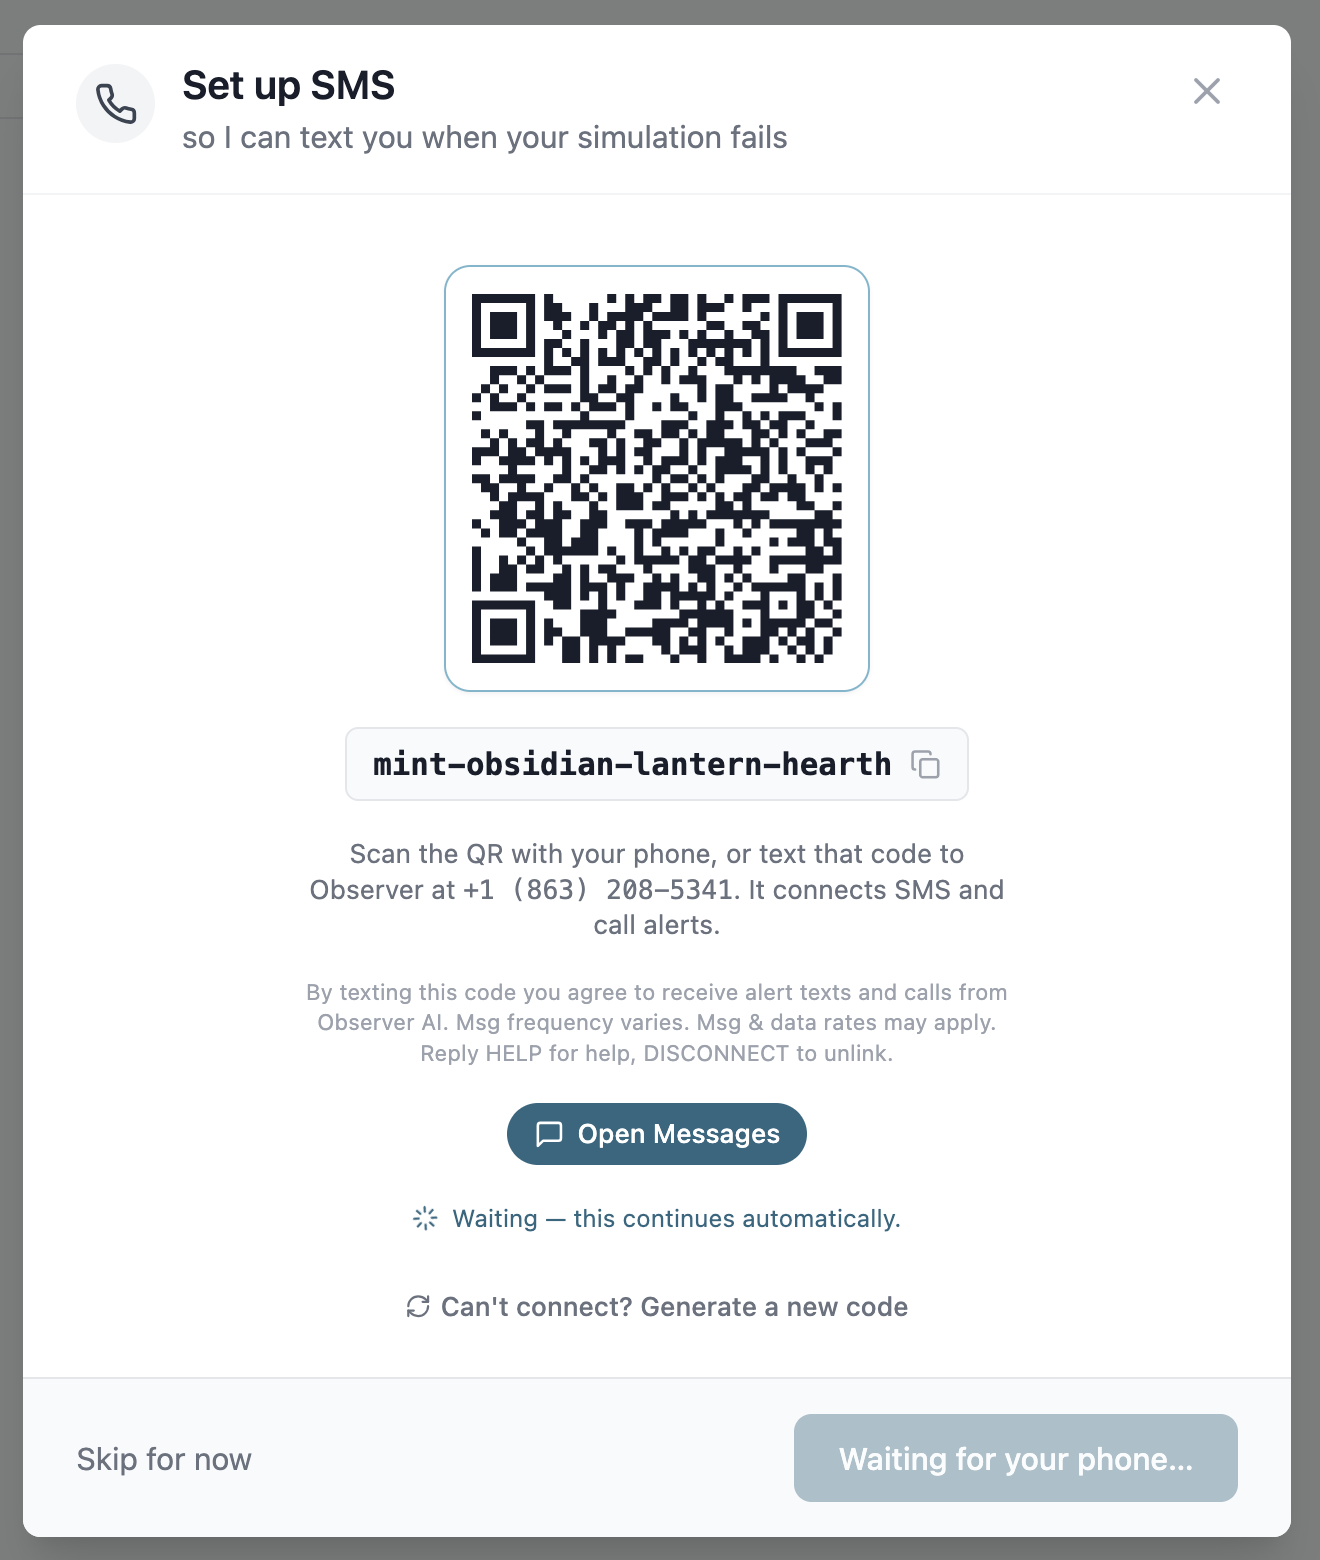
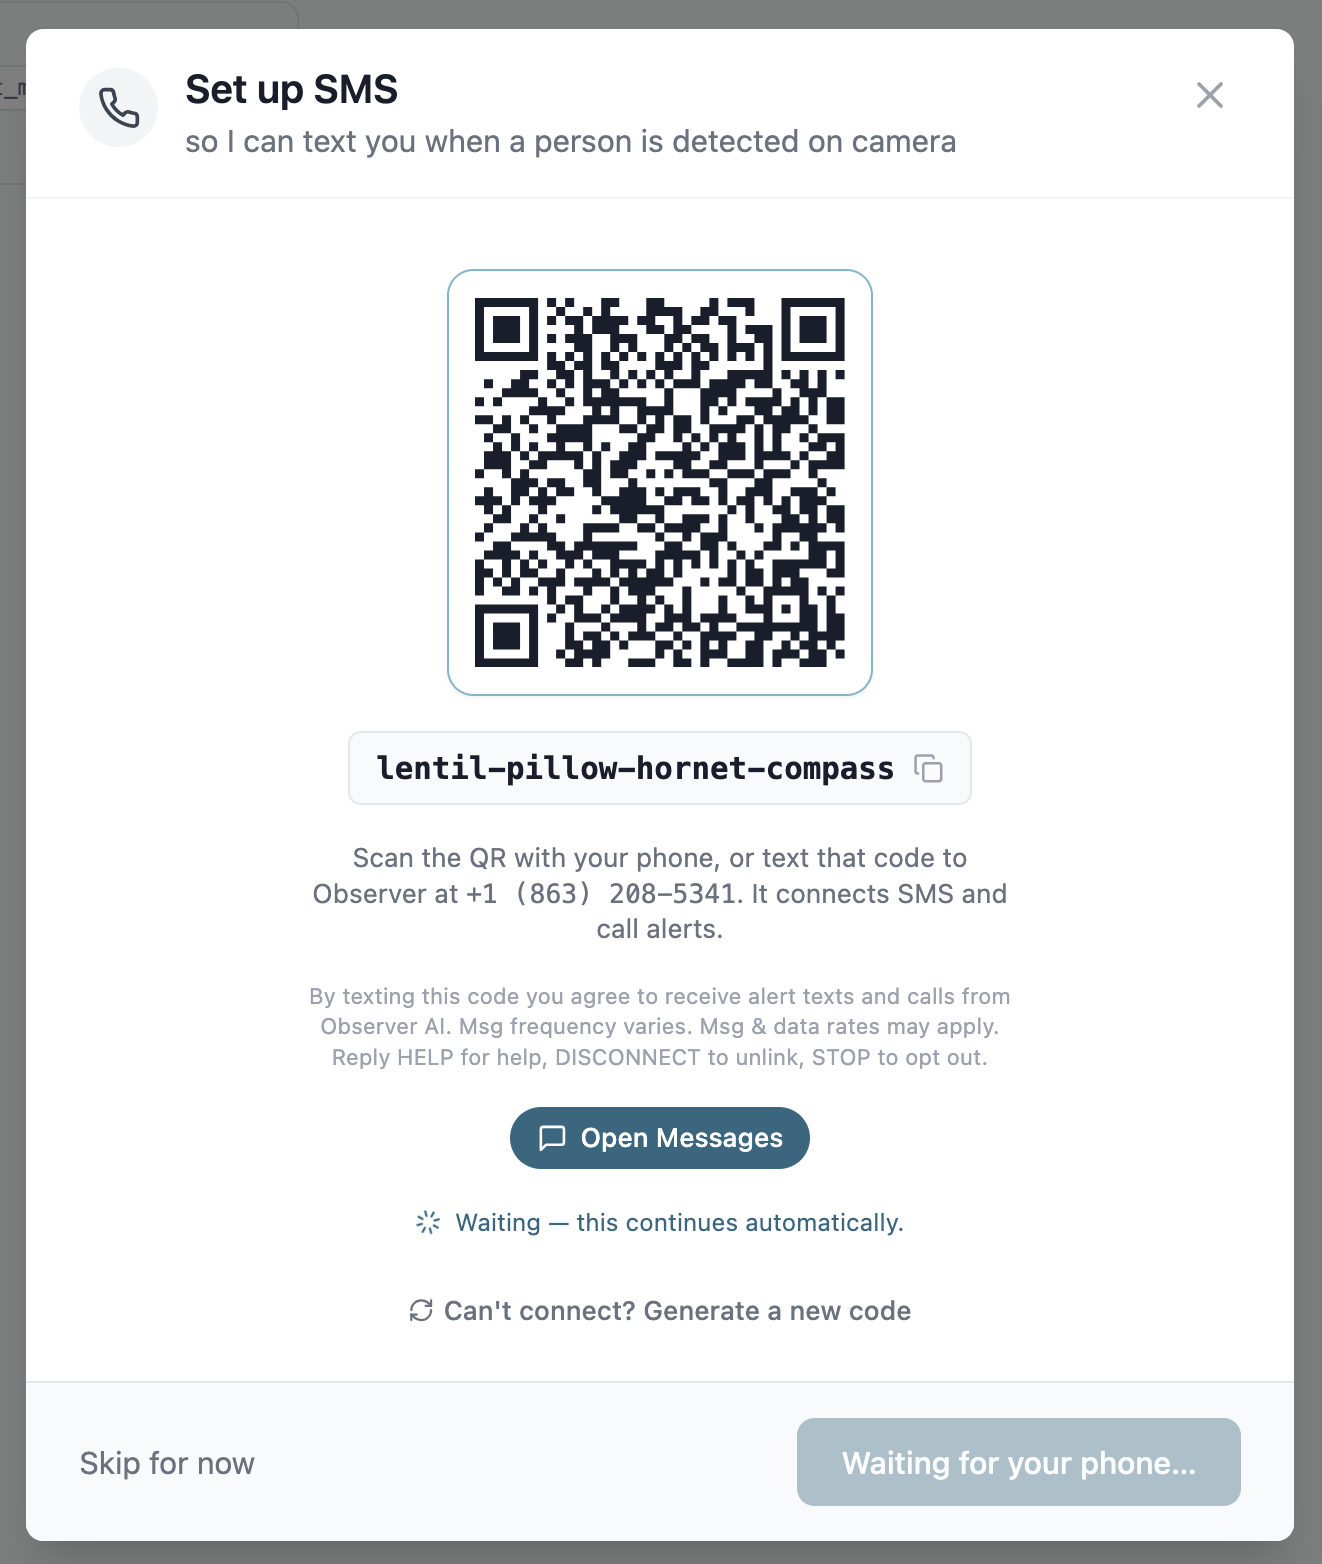
update frontend copy

diff --git a/app/src/components/whitelist/shared.ts b/app/src/components/whitelist/shared.ts
@@ -38,7 +38,7 @@ export const openSms = (code: string) => openExternal(smsCodeQRValue(code));
 /** The disclosure shown wherever the SMS code is: texting it is the user's SMS opt-in. */
 export const SMS_CONSENT =
   'By texting this code you agree to receive alert texts and calls from Observer AI. ' +
-  'Msg frequency varies. Msg & data rates may apply. Reply HELP for help, DISCONNECT to unlink.';
+  'Msg frequency varies. Msg & data rates may apply. Reply HELP for help, DISCONNECT to unlink, STOP to opt out.';
 
 export interface PhoneEntry {
   number: string;
